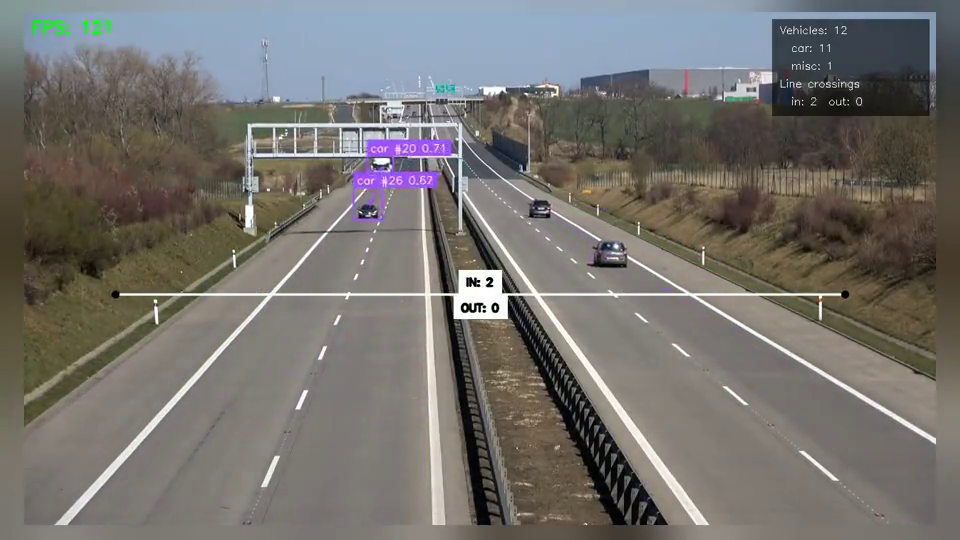
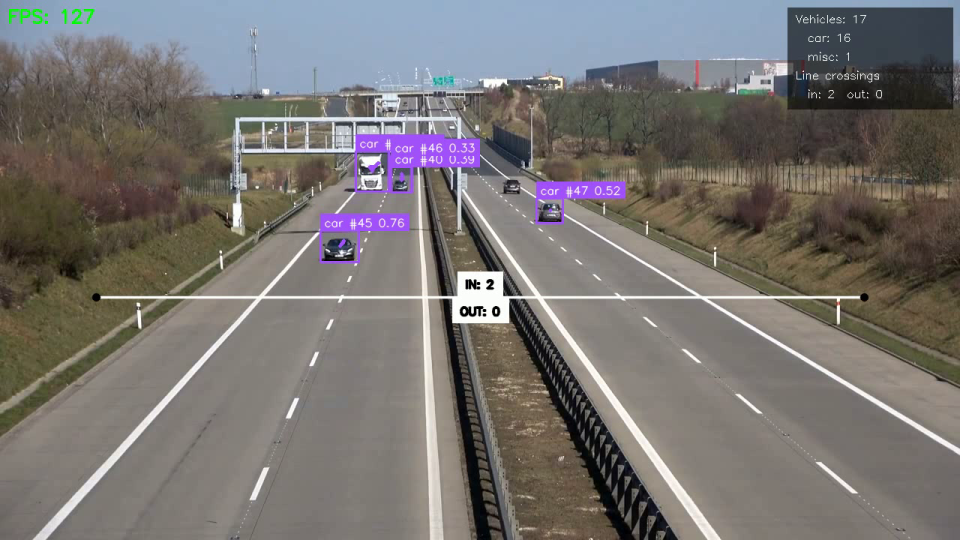
Differentiate README tracking and analytics stills.
Render trails-only vs tripwire overlays as separate demo passes so the Visual Tour columns show distinct images.

diff --git a/tasks/build_readme_media.py b/tasks/build_readme_media.py
@@ -28,8 +28,11 @@ BENCHMARK_WARMUP_FRAMES = 30
 DEMO_MIN_CONFIDENCE = 0.25
 DEMO_TRACK_CONFIDENCE = 0.10
 DEMO_DURATION_SEC = 10.0
+# Longer trails so a single still clearly shows motion paths.
+TRACKING_TRACE_LENGTH = 90
 DEFAULT_SEGMENT_START_SEC = 3.0
 DEFAULT_SEGMENT_DURATION_SEC = 12.0
+README_STILL_WIDTH = 960
 README_VIDEO_URL = "https://github.com/h01t/vtrack/releases/download/media/demo-short.mp4"
 
 
@@ -223,6 +226,16 @@ def compose_demo_video(
         )
 
 
+def resize_still(frame: np.ndarray, *, width: int = README_STILL_WIDTH) -> np.ndarray:
+    """Resize a still for README display without letterbox blur bars."""
+    height, current_width = frame.shape[:2]
+    if current_width == width:
+        return frame
+    out_height = max(2, int(round(height * (width / current_width))))
+    out_height -= out_height % 2
+    return cv2.resize(frame, (width, out_height), interpolation=cv2.INTER_AREA)
+
+
 def extract_frame(video_path: Path, *, fraction: float) -> np.ndarray:
     capture = cv2.VideoCapture(str(video_path))
     if not capture.isOpened():
@@ -333,7 +346,8 @@ def build_demo_assets(args: argparse.Namespace) -> None:
     with tempfile.TemporaryDirectory(prefix="vtrack-readme-media-") as temp_dir_raw:
         temp_dir = Path(temp_dir_raw)
         source_segment = temp_dir / "source-segment.mp4"
-        annotated_video = temp_dir / "annotated-full.mp4"
+        tracking_video = temp_dir / "annotated-tracking.mp4"
+        analytics_video = temp_dir / "annotated-analytics.mp4"
         frames_csv = temp_dir / "frames.csv"
         summary_json = temp_dir / "summary.json"
 
@@ -346,34 +360,47 @@ def build_demo_assets(args: argparse.Namespace) -> None:
 
         segment_info = probe_video(source_segment)
         line_zone = build_line_zone(segment_info)
-        analytics = VehicleAnalytics(line_zone=line_zone)
-        inference = InferenceConfig(
+        base_inference = InferenceConfig(
             model_path=str(model_path),
             min_confidence=DEMO_MIN_CONFIDENCE,
             track_conf=DEMO_TRACK_CONFIDENCE,
             tracker=DEMO_TRACKER,
             device="cuda",
+            trace_length=TRACKING_TRACE_LENGTH,
         )
+
+        # Pass 1: boxes + trails only (Visual Tour "Tracking + Trails").
         run_demo(
             source=source_segment,
-            inference=inference,
+            inference=base_inference,
+            analytics=None,
+            display=False,
+            save_path=str(tracking_video),
+        )
+
+        # Pass 2: tripwire + summary panel (Visual Tour "Analytics Overlay" + demo MP4).
+        analytics = VehicleAnalytics(line_zone=line_zone)
+        run_demo(
+            source=source_segment,
+            inference=base_inference,
             analytics=analytics,
             display=False,
-            save_path=str(annotated_video),
+            save_path=str(analytics_video),
             export_csv=str(frames_csv),
             export_json=str(summary_json),
         )
 
         demo_short = out_dir / "demo-short.mp4"
         compose_demo_video(
-            annotated_video=annotated_video,
+            annotated_video=analytics_video,
             destination=demo_short,
             crop_top_ratio=args.scene_crop_top_ratio,
         )
 
-        hero_frame = extract_frame(demo_short, fraction=0.45)
-        tracking_frame = extract_frame(demo_short, fraction=0.68)
-        analytics_frame = extract_frame(demo_short, fraction=0.82)
+        # Stills come from each pass so the two README columns are visually distinct.
+        tracking_frame = resize_still(extract_frame(tracking_video, fraction=0.72))
+        analytics_frame = resize_still(extract_frame(analytics_video, fraction=0.78))
+        hero_frame = resize_still(extract_frame(analytics_video, fraction=0.45))
 
         hero_poster = out_dir / "hero-poster.png"
         tracking_poster = out_dir / "tracking-frame.png"

diff --git a/src/vtrack/visualize.py b/src/vtrack/visualize.py
@@ -17,7 +17,7 @@ class Visualizer:
         self.box_annotator = sv.BoxAnnotator(thickness=2)
         self.label_annotator = sv.LabelAnnotator(text_scale=0.5, text_padding=5)
         self.trace_annotator = sv.TraceAnnotator(
-            thickness=2, trace_length=trace_length
+            thickness=3, trace_length=trace_length
         )
 
         # FPS tracking

diff --git a/docs/media/README.md b/docs/media/README.md
@@ -3,8 +3,8 @@
 Tracked, lightweight assets used by the public README:
 
 - `hero-poster.png` — poster frame for the README hero
-- `tracking-frame.png` — persistent IDs and trails
-- `analytics-frame.png` — line-counter / analytics overlay
+- `tracking-frame.png` — boxes + motion trails only (no tripwire)
+- `analytics-frame.png` — tripwire counting line + summary panel
 - `benchmark-trackers.svg` — CUDA FP16 tracker comparison (from `benchmark-cuda.csv`)
 - `benchmark-cuda.csv` — CUDA latency card (trackers × half, plus pretrained `yolo11s.pt` contrast)
 - `benchmark.csv` — legacy CPU snapshot (kept for historical regression experiments)

diff --git a/README.md b/README.md
@@ -40,7 +40,7 @@ graph TD
 | Tracking + Trails | Analytics Overlay |
 |-------------------|-------------------|
 | ![Tracking frame](docs/media/tracking-frame.png) | ![Analytics frame](docs/media/analytics-frame.png) |
-| Persistent IDs and trace lines make it easy to follow vehicles through the scene. | A tripwire counting line increments **in/out** when a track centroid crosses; the panel shows unique IDs and crossings. |
+| Persistent IDs and motion trails follow each vehicle through the scene. | A tripwire counting line increments **in/out** when a track centroid crosses; the panel shows unique IDs and crossings. |
 
 ## Why This Stack
 
